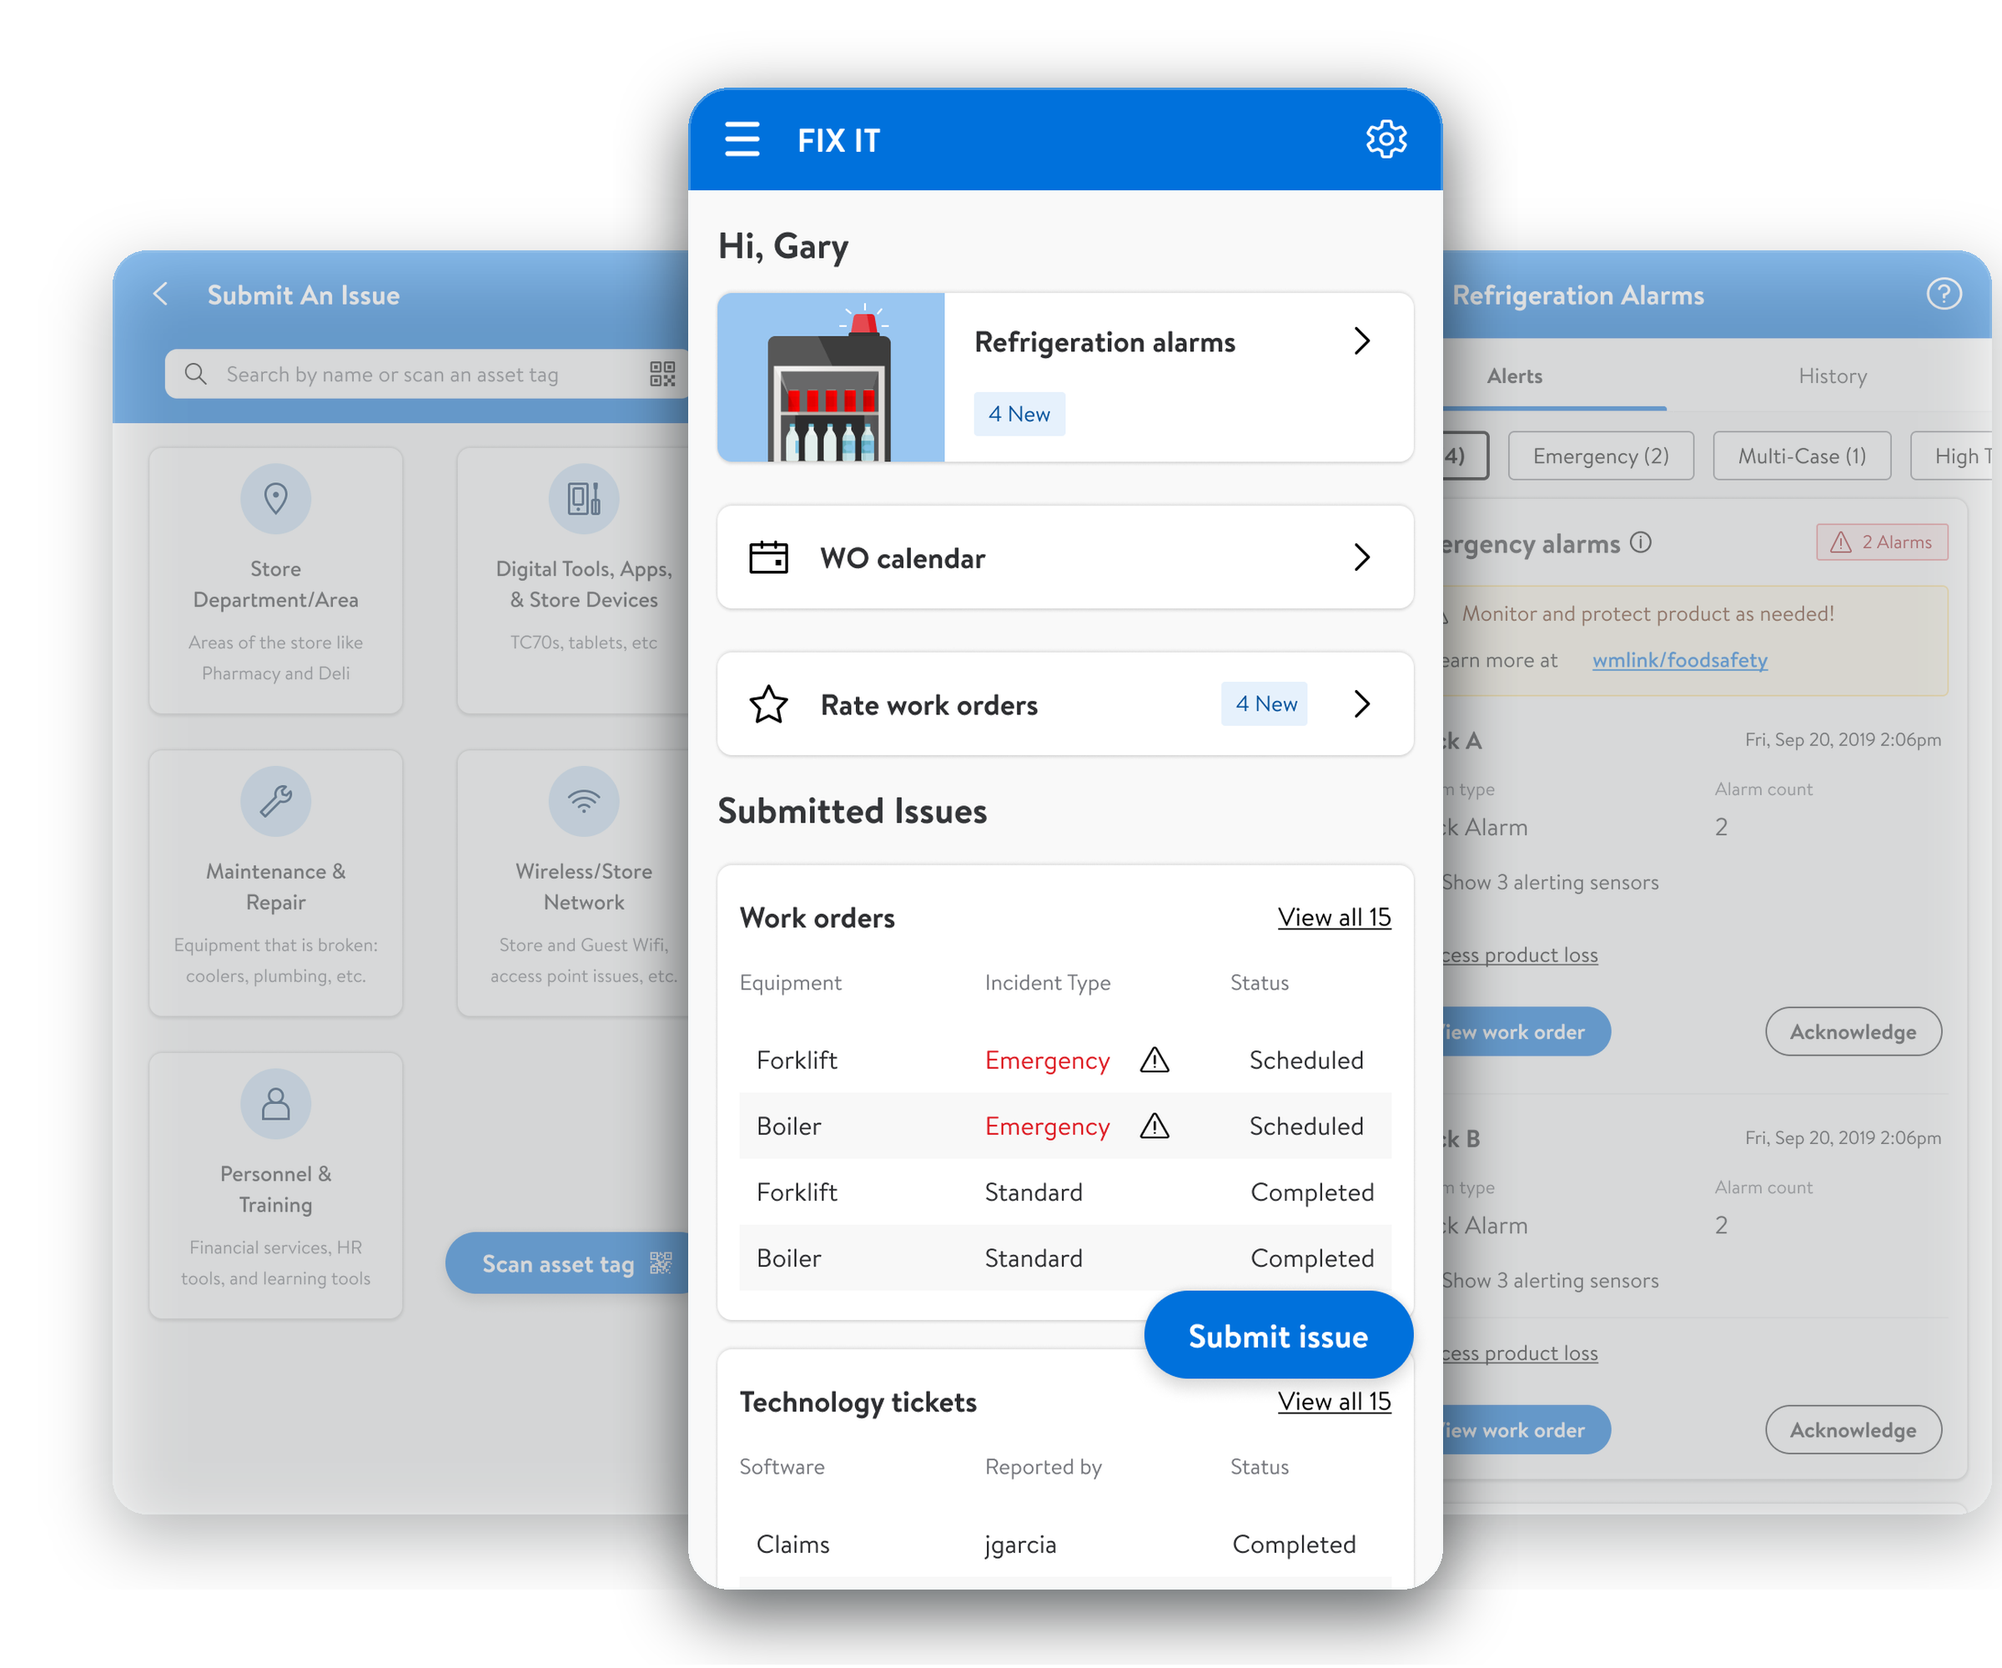
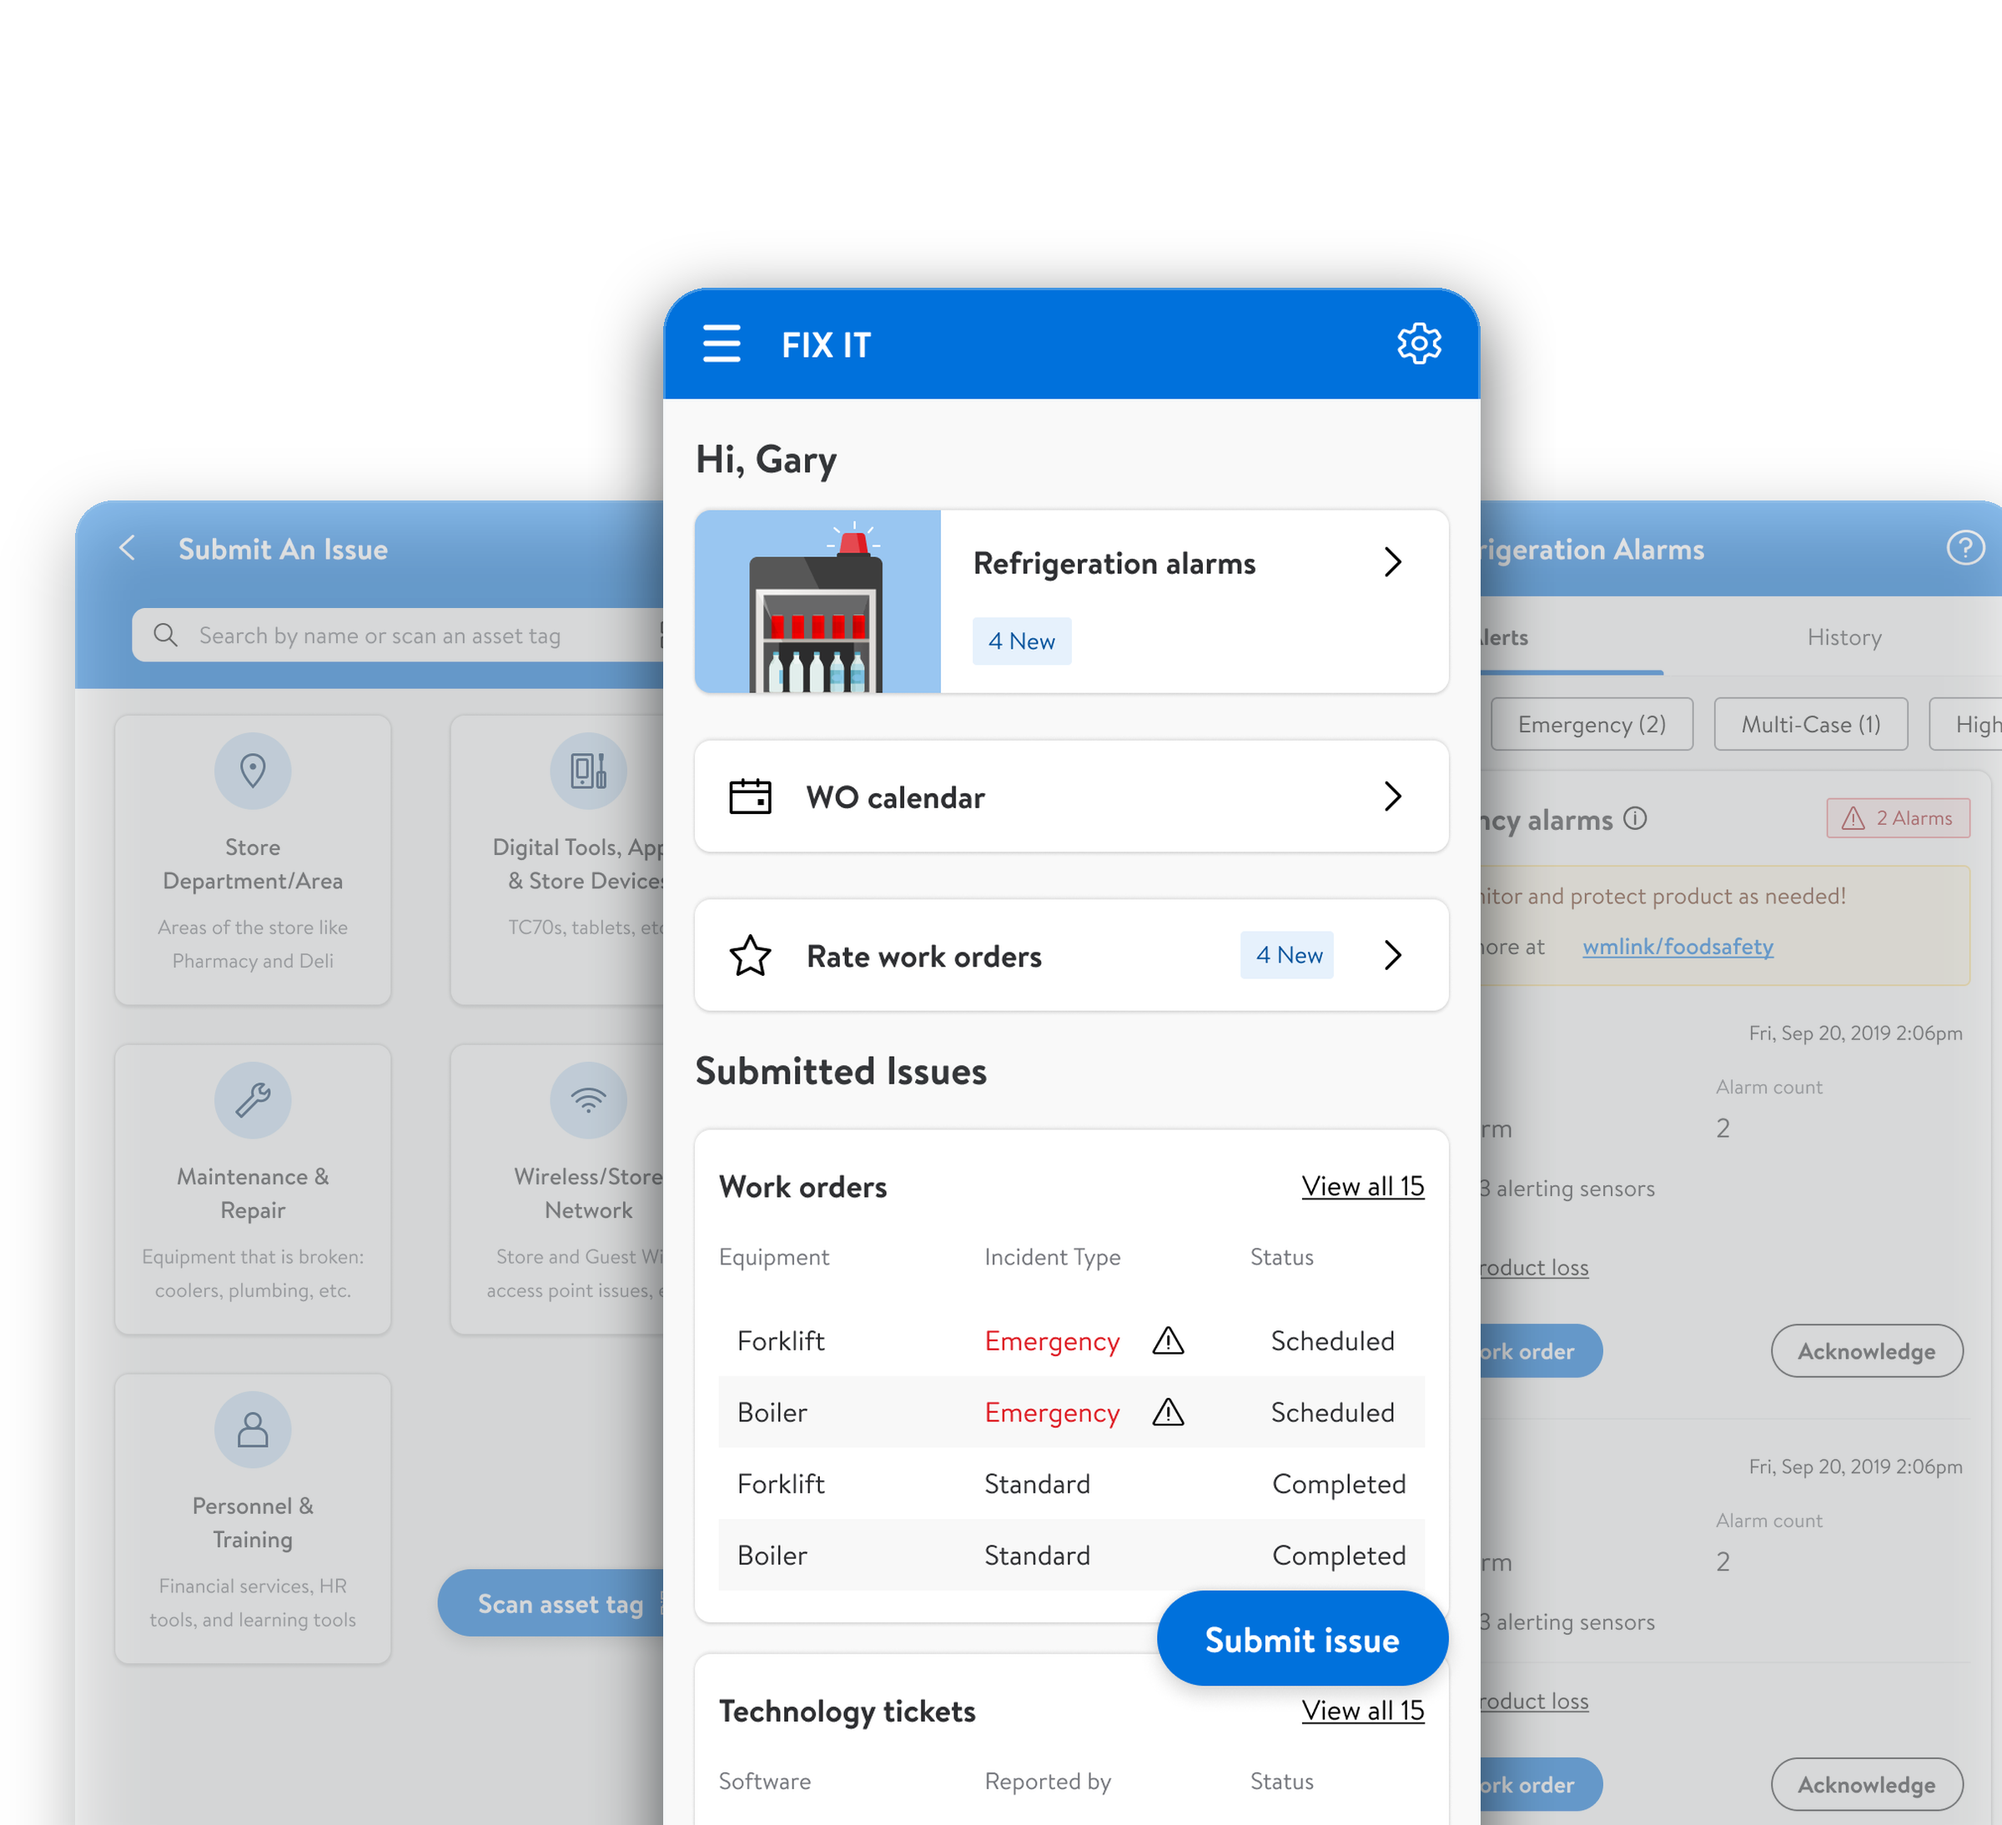
fix(store-support): stand the hero composite on the floor of the band
The composite was vertically centred, so it floated — band above it and
band below it, with the phones ending in mid-air rather than running off
an edge.

SceneBannerFigure now marks its root is-composite when bare, and that
variant anchors to flex-end. Scoped rather than changing .ds-scene-figure
outright: supply-chain's hero is a single landscape shot that should keep
centring, and it does (verified align: center, chrome intact).

The composite is rebuilt to match — taller (~1.1, landing ~700px against
the ~686px band) with all three phones running past the canvas floor.
Bottom-anchored, that floor is the band's floor, so they are cut by the
band instead of by the image. Measured: 6px above, 20px bottom bleed,
40px right bleed.

Compositing switched from alpha_composite to a clipped paste, since
alpha_composite refuses a source that extends past the canvas and every
phone now does.

diff --git a/src/styles/design-system.css b/src/styles/design-system.css
@@ -2500,6 +2500,13 @@ a:hover .ds-compact-mark .ds-dot {
   width: 100%;
 }
 
+/* A composite is built to sit on the floor of the band and run off it, so
+   it anchors to the bottom rather than centring — centring floats it and
+   strands band above and below. Landscape single shots still centre. */
+.ds-scene-figure.is-composite {
+  align-items: flex-end;
+}
+
 /* A pre-composed hero brings its own screen edges and shadows; the panel
    chrome would draw a second frame around the whole arrangement. */
 .ds-scene-figure-shot.is-bare {

diff --git a/src/components/design-system/SceneBannerFigure.tsx b/src/components/design-system/SceneBannerFigure.tsx
@@ -49,7 +49,7 @@ export function SceneBannerFigure({ screens = [], note, bare = false }: SceneBan
   const [lead, behind] = screens;
 
   return (
-    <div className="ds-scene-figure">
+    <div className={`ds-scene-figure${bare ? " is-composite" : ""}`}>
       <div className="ds-scene-figure-stack">
         {behind ? (
           <Image

diff --git a/scripts/hero-composite.py b/scripts/hero-composite.py
@@ -20,11 +20,11 @@ from PIL import Image, ImageDraw, ImageFilter
 SRC = "public/work/store-support"
 OUT = f"{SRC}/hero-composite.png"
 S = 1.5                       # render scale over the 1600x926 design space
-# 1600x1333 (~1.2). The band is ~686px tall and the stack is a fixed 48rem
-# (768px) wide, so a wider canvas centres short and strands dead band under
-# it. At this ratio the composite nearly fills the band's height, and the
-# stack's own -2.5rem right margin clips the right-hand phone into a bleed.
-W, H = int(1600*S), int(1333*S)
+# 1600x1459 (~1.1). The stack is a fixed 48rem (768px) wide, so this lands
+# ~700px tall against a ~686px band — the figure is bottom-anchored (see
+# .ds-scene-figure.is-composite), so the canvas floor is the band floor and
+# the phones below run off it.
+W, H = int(1600*S), int(1459*S)
 PHONE_AR = 720/1432           # match the device ratio used in the clips
 
 def phone(path, out_h, opacity=1.0, radius_frac=0.055):
@@ -72,17 +72,20 @@ canvas = Image.new("RGBA", (W, H), (0, 0, 0, 0))
 
 # x, y and height in the 1600x926 design space. Lead sits forward and bleeds
 # off the bottom; the flanking two recede and are dimmed.
-# Nothing bleeds off the canvas bottom: the band centres this image, so a
-# phone cut at the canvas edge reads as cut in mid-air rather than running
-# off the band. Horizontal bleed is left to the CSS.
+# Every phone runs off the canvas bottom. With the figure bottom-anchored
+# that edge is the band's own edge, so they read as standing on the floor of
+# the band rather than floating in it. The right-hand phone also passes the
+# canvas edge, which the stack's -2.5rem right margin carries into a bleed.
 layout = [
-    (f"{SRC}/submit-issue.png",          90, 200, 1010, 0.45),
-    (f"{SRC}/refrigeration-alarms.png", 1085, 200, 1010, 0.45),
-    (f"{SRC}/home.png",                  550,  70, 1200, 1.00),
+    (f"{SRC}/submit-issue.png",           60, 400, 1100, 0.45),
+    (f"{SRC}/refrigeration-alarms.png", 1060, 400, 1100, 0.45),
+    (f"{SRC}/home.png",                  530, 230, 1300, 1.00),
 ]
 for path, x, y, h, op in layout:
     img, pad = phone(path, int(h*S), opacity=op)
-    canvas.alpha_composite(img, (int(x*S)-pad, int(y*S)-pad))
+    layer = Image.new("RGBA", (W, H), (0, 0, 0, 0))
+    layer.paste(img, (int(x*S)-pad, int(y*S)-pad))
+    canvas = Image.alpha_composite(canvas, layer)
 
 canvas.save(OUT)
 print("wrote", OUT, canvas.size)
